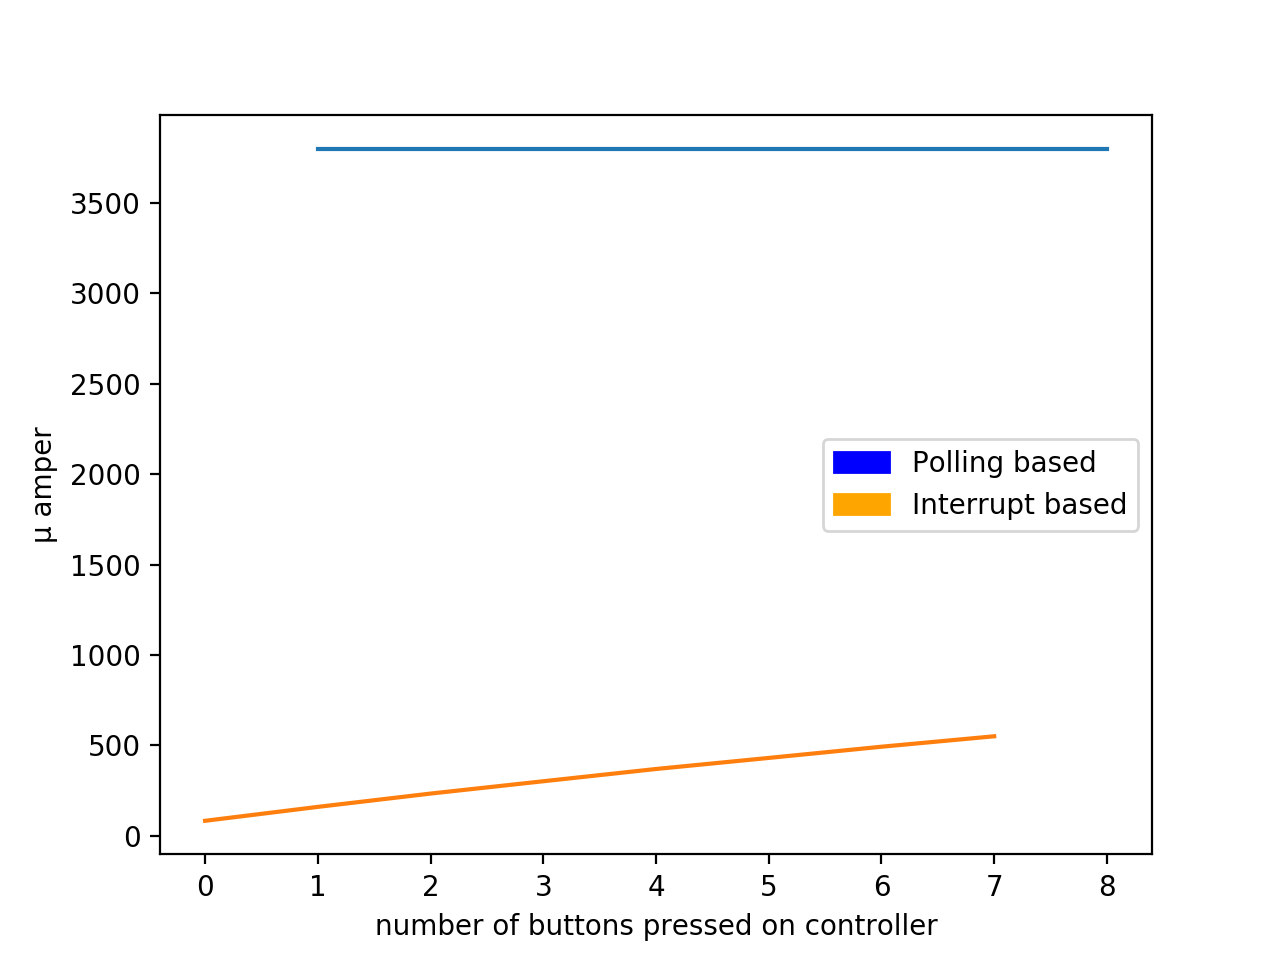
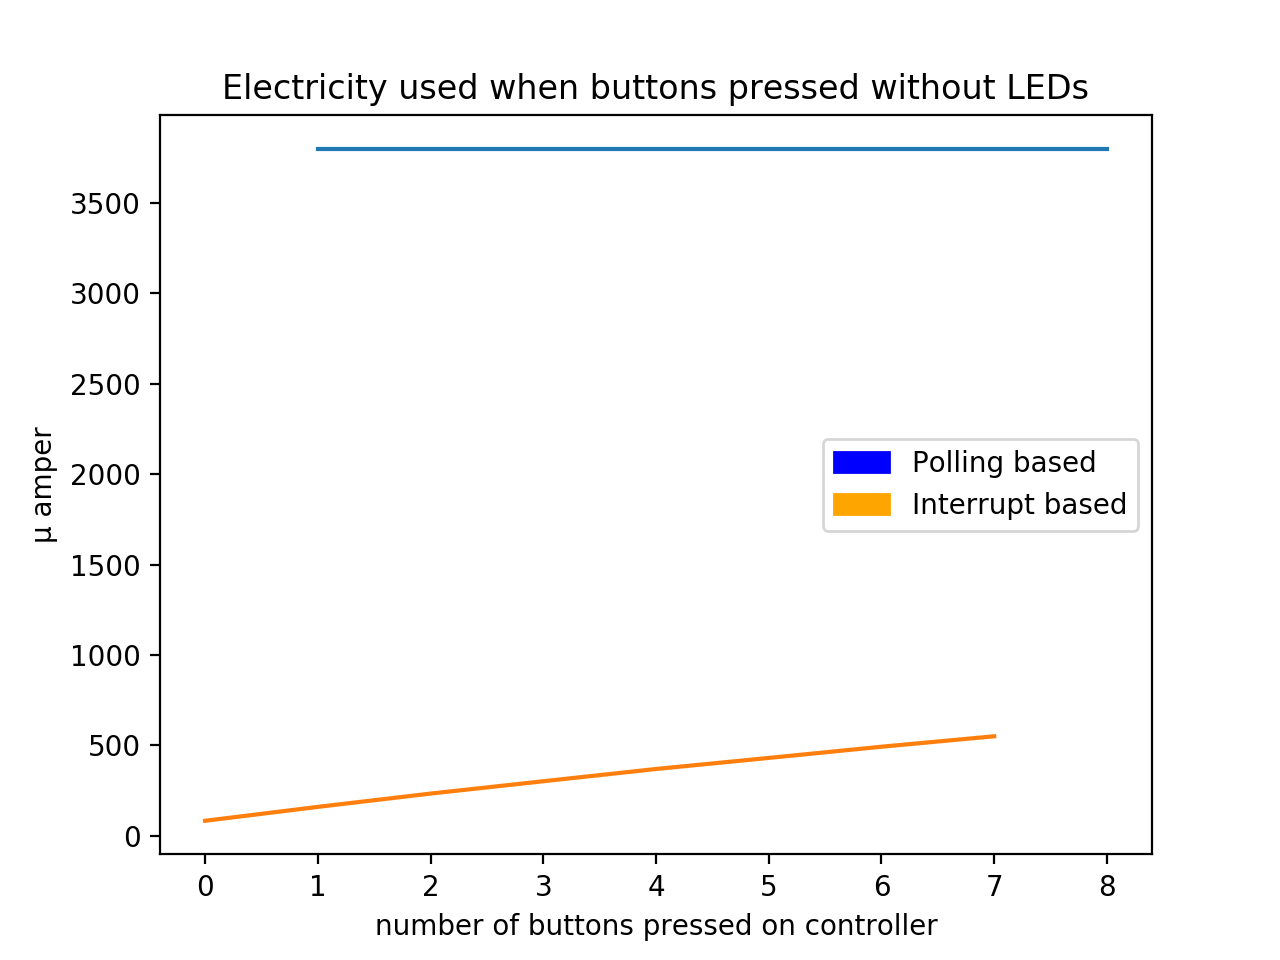
plotting for both LEDs and without LEDs with lgends and titles

Changed region(s): [[0.1562, 0.0625, 0.8438, 0.125]]

diff --git a/exercise1/ploting/main.py b/exercise1/ploting/main.py
@@ -18,12 +18,23 @@ print(t)
 
 plt.bar(t, values_avragebtn_interuptbased)
 plt.show()
-plt.bar(t,values_avragebtn_pollingbased)
+
+ax = plt.subplot(111)
+blue_patch = mpatches.Patch(color='blue', label='Polling based')
+red_patch = mpatches.Patch(color='red', label='Interrupt based')
+plt.legend(handles=[blue_patch, red_patch])
+plt.title('Electicity used when buttons pressed with LEDs')
+plt.ylabel('m amper')
+plt.xlabel('number of buttons pressed on controller')
+ax.bar(t+0.5, values_pollingbased, width=0.5, color='r', label='Interupt', align='center')
+ax.bar(t, values_interruptbased, width=0.5, color='b', label='Polling', align='center')
+
 plt.show()
 for value in values_avragebtn_pollingbased:
     values.append(value*1000)
 print(values)
 
+plt.title('Electricity used when buttons pressed without LEDs')
 blue_patch = mpatches.Patch(color='blue', label='Polling based')
 orange_patch = mpatches.Patch(color='orange', label='Interrupt based')
 plt.legend(handles=[blue_patch, orange_patch])
